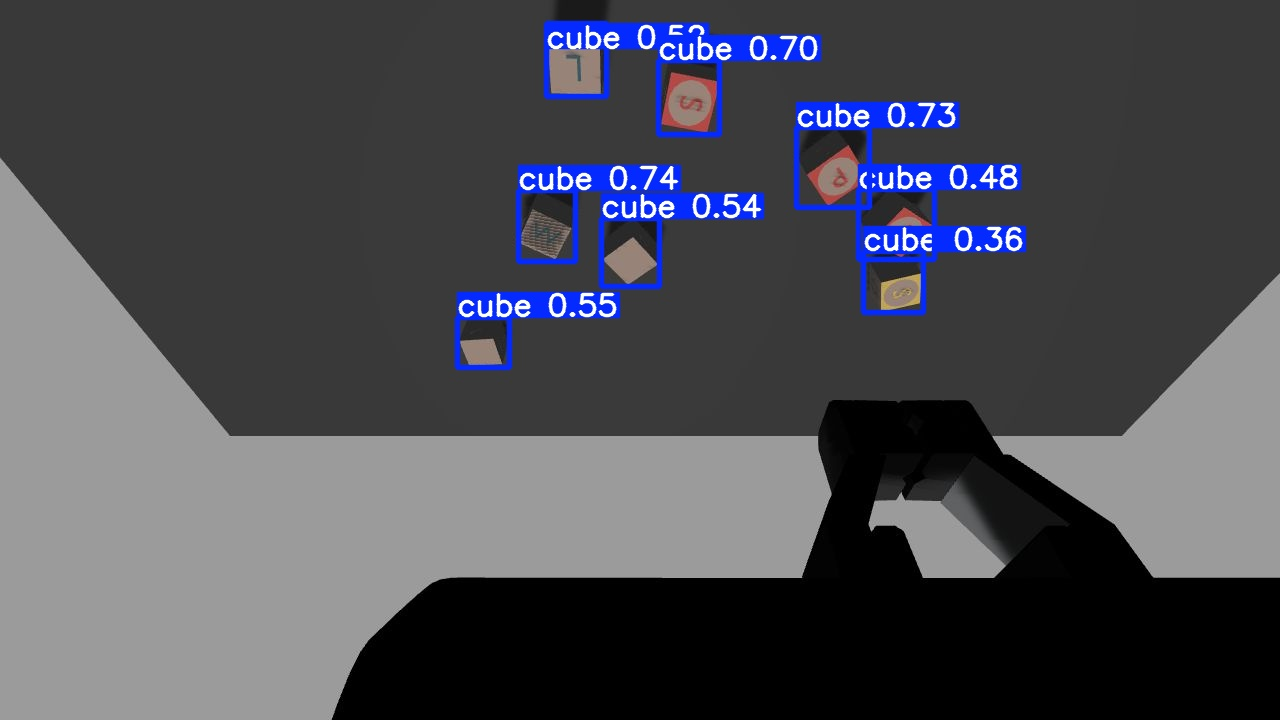
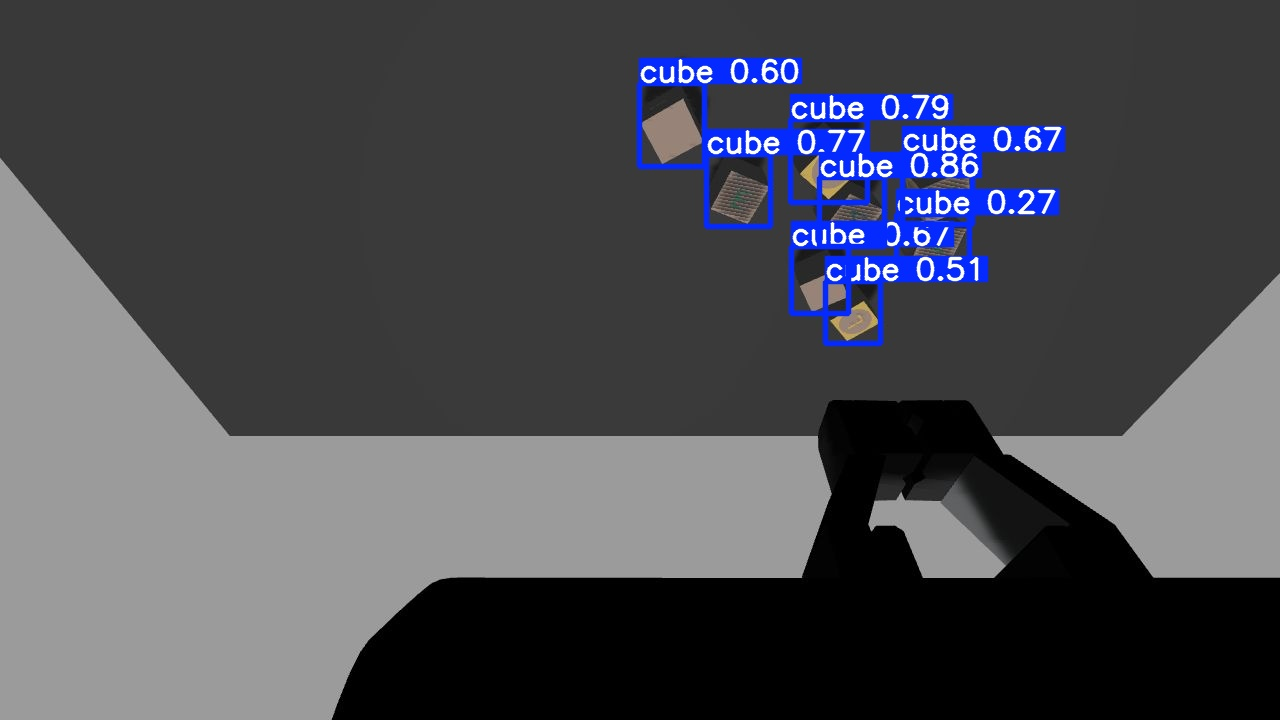
update calibration

Changed region(s): [[0.3438, 0.0, 0.8438, 0.5194]]

diff --git a/scripts/perception.py b/scripts/perception.py
@@ -1,13 +1,13 @@
 import numpy as np
-from scipy.ndimage import filters
-  
 import cv2
 import rospy
 import open3d as o3d
 from scipy.spatial.transform import Rotation as R
 from open3d.visualization import draw_plotly
-from sensor_msgs.msg import CompressedImage, PointCloud2
+from sensor_msgs.msg import CompressedImage, PointCloud2, PointField
 from sensor_msgs import point_cloud2 as pc2
+from sensor_msgs.point_cloud2 import create_cloud
+import std_msgs.msg
 
 from ultralytics import YOLO
 
@@ -15,81 +15,84 @@ class Perception:
     def __init__(self):
         self.xyxy = None
 
-    def TF_camera_to_base(self):
-        rpy_base_to_hand = [-3.141583, 0.001902, 0.000062]
-        translation_base_to_hand = [0.307027, 0, 0.530901]
-        rotation_base_to_hand = R.from_euler('xyz', rpy_base_to_hand).as_matrix()
+    def filter_pc(self, point_cloud_np, bboxes):
+        if point_cloud_np.shape[1] == 4:
+            point_cloud_np = point_cloud_np[:, :3]
 
-        rpy_hand_to_camera = [0, -1.35, 0]
-        translation_hand_to_camera = [-0.115, 0.056, 0.018]
-        rotation_hand_to_camera = R.from_euler('xyz', rpy_hand_to_camera).as_matrix()
+        # K = [527.2972398956961, 0.0, 658.8206787109375, 0.0, 527.2972398956961, 372.25787353515625, 0.0, 0.0, 1.0]
+        # fx, fy = K[0], K[4]
+        # cx_cam, cy_cam = K[2], K[5]
+        fx, fy = 527.2972398956961, 527.2972398956961
+        cx_cam, cy_cam = 640, 360
 
-        T_base_to_hand = np.eye(4)
-        T_base_to_hand[:3, :3] = rotation_base_to_hand
-        T_base_to_hand[:3, 3] = translation_base_to_hand
-        T_hand_to_camera = np.eye(4)
-        T_hand_to_camera[:3, :3] = rotation_hand_to_camera
-        T_hand_to_camera[:3, 3] = translation_hand_to_camera
+        bboxes_ = bboxes.cpu().numpy()
+        filtered_points = []
+        for bbox in bboxes_:
+            x1, y1, x2, y2 = bbox
 
-        T_base_to_camera = np.dot(T_base_to_hand, T_hand_to_camera)
-        print("Transformation Matrix from Base to Camera:\n", T_base_to_camera)
-        T_camera_to_base = np.linalg.inv(T_base_to_camera)
-        print("Transformation Matrix from Camera to Base:\n", T_camera_to_base)
+            X, Y, Z = point_cloud_np[:, 0], point_cloud_np[:, 1], point_cloud_np[:, 2]
+            u = (X * fx / Z) + cx_cam
+            v = (Y * fy / Z) + cy_cam
+            
+            in_bbox = (u >= x1) & (u <= x2) & (v >= y1) & (v <= y2)
+            filtered_points.append(point_cloud_np[in_bbox])
+            
+        if len(filtered_points) > 0:
+            filtered_points = np.vstack(filtered_points) 
+        else:
+            filtered_points = np.empty((0, 3)) 
 
-        return T_camera_to_base
+        # calibration
+        extrinsic_rotation = R.from_quat([0.658734, 0.658652, 0.257135, 0.257155]).as_matrix()     # z=-89.9905881 y=42.6502037 x=179.9937162                   # X 217
+        extrinsic_translation = np.array([0.209647, -0.0600195, 0.56205])  
+        points_base_frame = (extrinsic_rotation @ filtered_points.T).T + extrinsic_translation  
+        points_base_frame = points_base_frame[points_base_frame[:, 2] > 0.0005]     # 0.000067
+ 
+        point_cloud = o3d.geometry.PointCloud()
+        point_cloud.points = o3d.utility.Vector3dVector(points_base_frame)
+        o3d.visualization.draw_geometries([point_cloud])
+        draw_plotly([point_cloud])
 
-    def calibrate_pc(self, point_cloud_np, T_camera_to_base):
-        points_homogeneous = np.hstack((point_cloud_np, np.ones((point_cloud_np.shape[0], 1))))
-        calibrated_points_homogeneous = np.dot(T_camera_to_base, points_homogeneous.T).T
-        calibrated_points = calibrated_points_homogeneous[:, :3]
-
-        return calibrated_points
+        return point_cloud     
+    
 
     def callback_rgb(self, data):
         np_arr = np.frombuffer(data.data, np.uint8)
         rgb_image = cv2.imdecode(np_arr, cv2.IMREAD_COLOR) 
    
-        # save_path = "/opt/ros_ws/src/perception/dataset/test1.jpg"
-        # cv2.imwrite(save_path, rgb_image)
-        # cv2.imshow('cv_img', rgb_image)
-
-        model = YOLO("/opt/ros_ws/src/perception/model/best.pt")  # Load a trained model
+        model = YOLO("/opt/ros_ws/src/perception/model/best.pt")    # Load a trained model
         source = rgb_image
         results = model(source)                                     # return a list of Results objects
 
         for result in results:
             boxes = result.boxes                                    # Boxes object for bounding box outputs
-            # print(boxes.xywh)
             self.xyxy = boxes.xyxy
-            print(self.xyxy)
-            masks = result.masks                                    # Masks object for segmentation masks outputs
-            keypoints = result.keypoints                            # Keypoints object for pose outputs
-            probs = result.probs                                    # Probs object for classification outputs
-            obb = result.obb                                        # Oriented boxes object for OBB outputs
             result.save("/opt/ros_ws/src/perception/test_images/result0.jpg")
 
     def callback_pc(self, data):
+        # print("Data: ",data.header.frame_id)
         pc_data = pc2.read_points(data, field_names=("x", "y", "z"), skip_nans=True)
-        points = list(pc_data)
-        point_cloud_np = np.array(points)
+        point_cloud_np = np.array(list(pc_data))
 
-        T_camera_to_base = self.TF_camera_to_base()
-        calibrated_points = self.calibrate_pc(point_cloud_np, T_camera_to_base)
-
-        # z_threshold = 0.03  #[0.7,1]
-        # filtered_points = point_cloud_np[(calibrated_points[:, 2] <= z_threshold)]
+        if self.xyxy is not None:
+            filtered_point_cloud = self.filter_pc(point_cloud_np, self.xyxy)
+            filtered_points_np = np.asarray(filtered_point_cloud.points)
         
-        calibrated_pc = o3d.geometry.PointCloud()
-        calibrated_pc.points = o3d.utility.Vector3dVector(calibrated_points)
+            header = std_msgs.msg.Header()
+            header.stamp = rospy.Time.now()
+            # header.frame_id = "left_camera_link_optical"  
+            header.frame_id = "world"
+            fields = [
+                PointField('x', 0, PointField.FLOAT32, 1),
+                PointField('y', 4, PointField.FLOAT32, 1),
+                PointField('z', 8, PointField.FLOAT32, 1),
+            ]
 
-        coordinate_frame = o3d.geometry.TriangleMesh.create_coordinate_frame(size=0.5, origin=[0, 0, 0])
-        coordinate_frame.transform(T_camera_to_base)
-        
-        o3d.visualization.draw_geometries([calibrated_pc, coordinate_frame])
-        # o3d.visualization.draw_geometries([calibrated_pc])
-        # draw_plotly([calibrated_pc])
+            point_cloud_msg = create_cloud(header, fields, filtered_points_np)
+            print("test")
+            pub.publish(point_cloud_msg)         
 
-def perception_node():
+def perception():
     perception = Perception()
 
     rospy.init_node('perception', anonymous=True)
@@ -98,8 +101,12 @@ def perception_node():
     rospy.Subscriber("/zed2/zed_node/point_cloud/cloud_registered",
         PointCloud2, perception.callback_pc,  queue_size = 10)
     
+    global pub
+    pub = rospy.Publisher('filtered_point_cloud', PointCloud2, queue_size=10)
+    
     rospy.spin()
     cv2.destroyAllWindows()
 
 if __name__ == '__main__':
-    perception_node()
+    perception()
+
